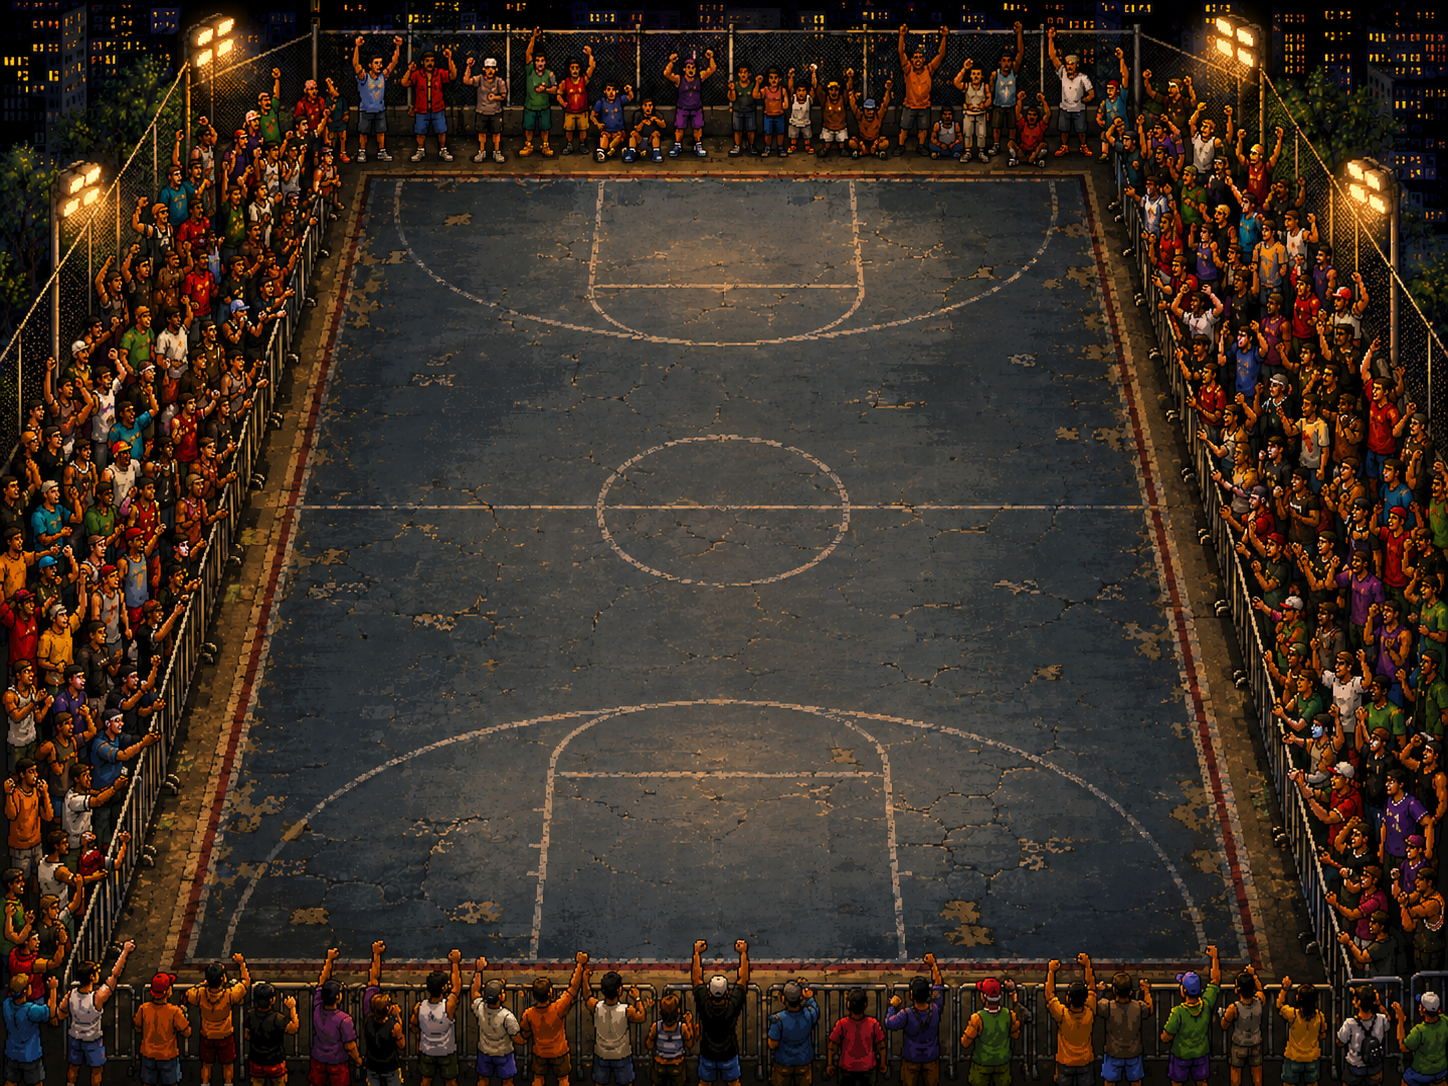
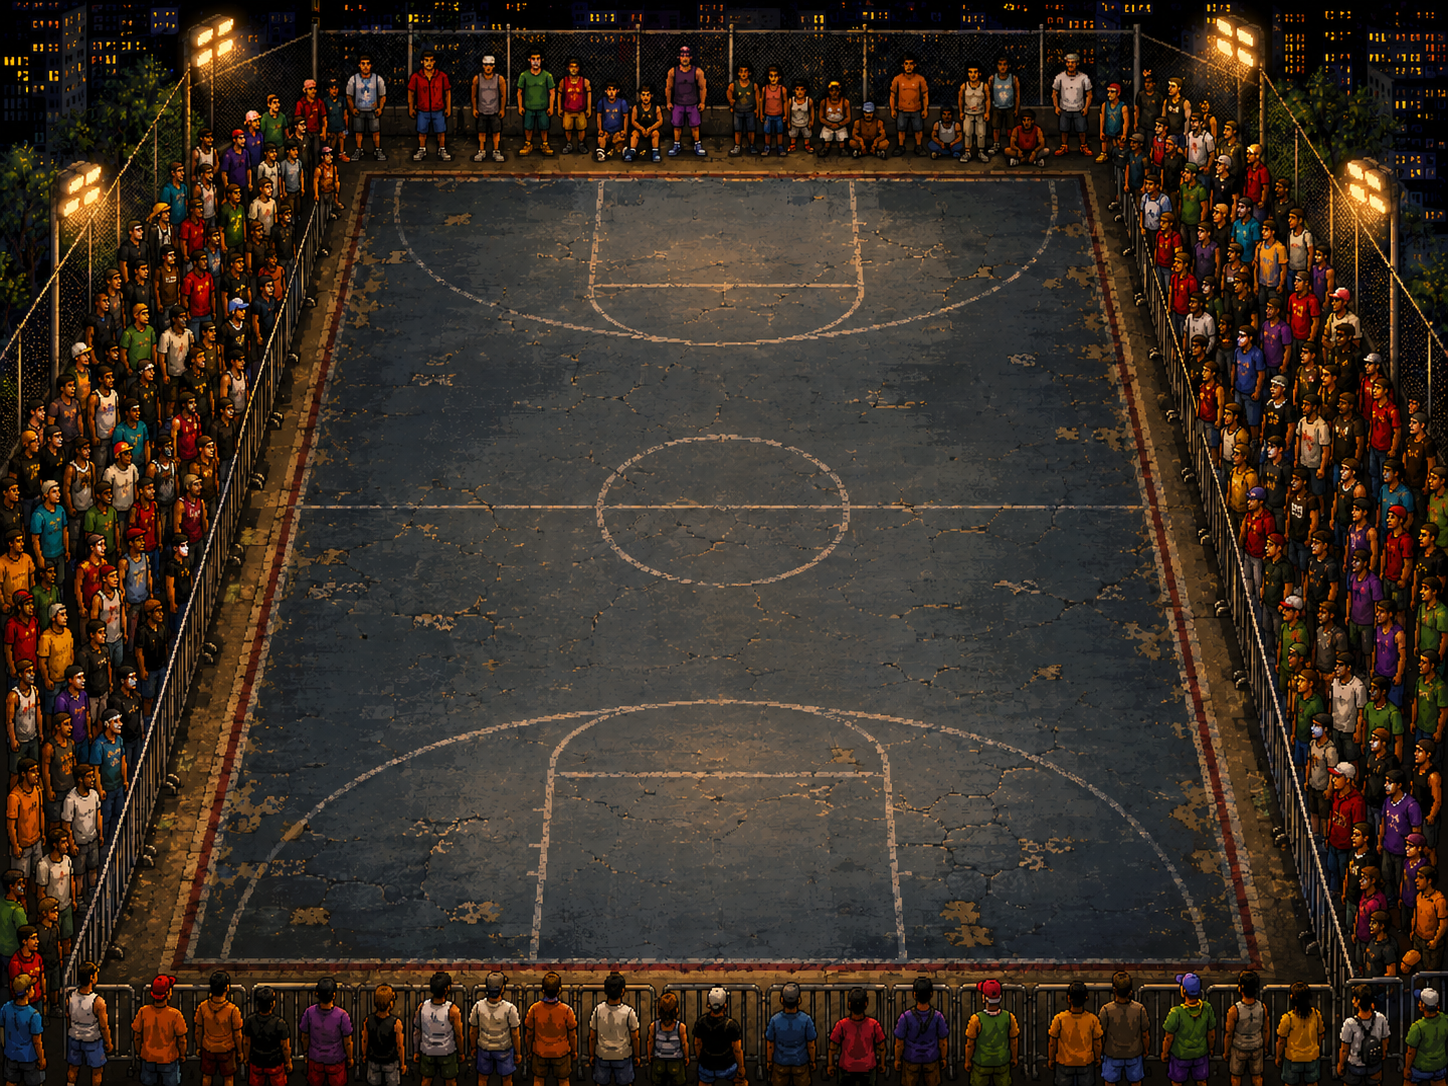
Backgrounds

Changed region(s): [[0.0, 0.0, 1.0, 1.0], [0.9945, 0.0304, 1.0, 0.0608], [0.9012, 0.0608, 0.9323, 0.0912]]

diff --git a/js/main.js b/js/main.js
@@ -65,6 +65,9 @@ import {
 // Speed progression system
 import { SpeedProgressionSystem } from "./game/SpeedProgressionSystem.js";
 
+// Bakcground system
+import { setBackSystem } from "./game/backSystem.js";
+
 /////////////////////////////////////////////////////////////////////////////////
 /////////////////////////////////////////////////////////////////////////////////
 /////////////////////////////////////////////////////////////////////////////////
@@ -75,6 +78,9 @@ const canvas = document.getElementById("gameCanvas");
 if (!canvas) { throw new Error("Canvas element not found"); }
 
 const ctx = canvas.getContext("2d");
+
+const cheapongPage = document.querySelector(".cheapong-page");
+if (!cheapongPage) { throw new Error("Cheapong page element not found!"); }
 
 const canvasWidth = GAME_SETTINGS.canvasWidth;
 const canvasHeight = GAME_SETTINGS.canvasHeight;
@@ -132,7 +138,7 @@ let currentBallSpeed = GAME_SETTINGS.ballSpeed;
 // Current applicaton state
 let appState = AppState.MAIN_MENU;
 
-const scoreSystem = new ScoreSystem(10, 1);
+const scoreSystem = new ScoreSystem(1, 3);
 
 const speedProgressionSystem = new SpeedProgressionSystem();
 
@@ -302,6 +308,11 @@ function updateGame() {
 
     if (gameState === GameState.POINT_OVER) {
         if (performance.now() >= pointMessageEndTime) {
+
+            if (pointWinner === "PLAYER") {
+                const { backgroundImage } = setBackSystem(scoreSystem.getCurrentMatch());
+                cheapongPage.style.backgroundImage = `url("${backgroundImage}")`;
+            }
             gameState = nextServeState;
 
             pointWinner = null;
@@ -594,22 +605,26 @@ function handleScore() {
     }
 }
 
-function startPointPause(winner, serveState) {
-    const cheapongPage = document.querySelector("cheapong-page");
+// const POINT_GIF = "assets/img/backgrounds/point.gif";
 
-    const POINT_GIF = "assets/img/backgrounds/point.gif";
+function startPointPause(winner, serveState) {
+
+    const { pointGif } = setBackSystem(scoreSystem.getCurrentMatch());
+    const { backgroundImage } = setBackSystem(scoreSystem.getCurrentMatch());
 
     pointWinner = winner;
 
     pointMessageEndTime = performance.now() + GAME_SETTINGS.pointMessageDuration;
 
     if (winner === "PLAYER") {
-        cheapongPage.style.backgroundImage = `url("${POINT_GIF}")`;
+        cheapongPage.style.backgroundImage = `url("${pointGif}")`;
     }
 
     nextServeState = serveState;
     gameState = GameState.POINT_OVER;
     resetPaddles();
+
+    if (!pointMessageEndTime) { cheapongPage.style.backgroundImage = `url"(${backgroundImage})"`; }
 }
 
 function resetPaddles() {

diff --git a/js/game/backSystem.js b/js/game/backSystem.js
@@ -1,0 +1,12 @@
+export function setBackSystem(matchNumber) {
+    const formattedMatch = String(matchNumber).padStart(2, "0");
+
+    return {
+        backgroundImage:
+            `assets/img/backgrounds/back${formattedMatch}.png`,
+
+        pointGif:
+            `assets/img/backgrounds/gif${formattedMatch}.gif`
+
+    };
+}

diff --git a/css/style.css b/css/style.css
@@ -17,7 +17,7 @@ body {
     align-items: center;
     background-image: url("../assets/img/backgrounds/back01.png");
     background-size: contain;
-    background-position: center;
+    background-position: top;
     background-repeat: no-repeat;
 }
 

diff --git a/js/core/gameConfig.js b/js/core/gameConfig.js
@@ -10,7 +10,7 @@ export const GAME_SETTINGS = {
     speedIncreaseFactor: 1.1,
     maxBallSpeed: 18,
     maxPaddleSpeed: 18,
-    pointMessageDuration: 800
+    pointMessageDuration: 2000
 };
 
 export const Difficulty = {
